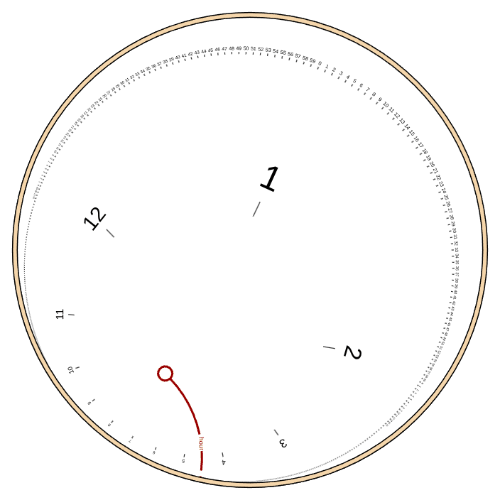
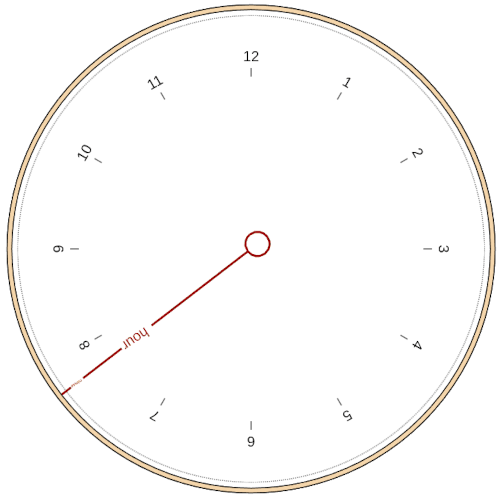
my updates

diff --git a/docs/index.html b/docs/index.html
@@ -7,20 +7,9 @@
 <link rel="stylesheet" href="style.css">
 </head>
 <body>
-<nav><a href="https://github.com/jpivarski/hyperbolic-map">&larr; hyperbolic-map on GitHub</a></nav>
+<nav><a href="https://github.com/jpivarski/hyperbolic-map">&larr; back to GitHub</a></nav>
 
-<h1>hyperbolic-map</h1>
-
-<p>An interactive viewer for vector maps of the <strong>hyperbolic plane</strong>, drawn in the
-Poincar&eacute; disk. Zero dependencies, plain JavaScript.</p>
-
-<p>This page is the reference. See
-<a href="https://github.com/jpivarski/hyperbolic-map">the README</a> for what the library is and how
-to install it,
-<a href="https://github.com/jpivarski/hyperbolic-map/blob/main/docs/MATH.md">MATH.md</a> for the
-geometry underneath, and the examples:
-<a href="dungeon-man.html">Dungeon Man</a>, <a href="jumping-man.html">Jumping Man</a>,
-<a href="escher.html">Circle Limit III</a> and <a href="clock.html">the clock</a>.</p>
+<h1>Hyperbolic Map Documentation</h1>
 
 <h2 id="a-minimal-example">A minimal example</h2>
 <p>Two files, and nothing else. Both are complete: copy them into an empty directory, put

diff --git a/docs/escher.html b/docs/escher.html
@@ -7,7 +7,7 @@
 <link rel="stylesheet" href="style.css">
 </head>
 <body>
-<nav><a href="https://github.com/jpivarski/hyperbolic-map">&larr; hyperbolic-map on GitHub</a></nav>
+<nav><a href="https://github.com/jpivarski/hyperbolic-map">&larr; back to GitHub</a></nav>
 
 <h1>M.C. Escher's <em>Circle Limit III</em></h1>
 

diff --git a/docs/clock.html b/docs/clock.html
@@ -7,7 +7,7 @@
 <link rel="stylesheet" href="style.css">
 </head>
 <body>
-<nav><a href="https://github.com/jpivarski/hyperbolic-map">&larr; hyperbolic-map on GitHub</a></nav>
+<nav><a href="https://github.com/jpivarski/hyperbolic-map">&larr; back to GitHub</a></nav>
 
 <h1>One-handed clock</h1>
 

diff --git a/docs/dungeon-man.html b/docs/dungeon-man.html
@@ -7,7 +7,7 @@
 <link rel="stylesheet" href="style.css">
 </head>
 <body>
-<nav><a href="https://github.com/jpivarski/hyperbolic-map">&larr; hyperbolic-map on GitHub</a></nav>
+<nav><a href="https://github.com/jpivarski/hyperbolic-map">&larr; back to GitHub</a></nav>
 
 <h1>Dungeon Man</h1>
 

diff --git a/docs/jumping-man.html b/docs/jumping-man.html
@@ -7,7 +7,7 @@
 <link rel="stylesheet" href="style.css">
 </head>
 <body>
-<nav><a href="https://github.com/jpivarski/hyperbolic-map">&larr; hyperbolic-map on GitHub</a></nav>
+<nav><a href="https://github.com/jpivarski/hyperbolic-map">&larr; back to GitHub</a></nav>
 
 <h1>Jumping Man</h1>
 

diff --git a/README.md b/README.md
@@ -2,20 +2,22 @@
 
 A JavaScript map widget that draws vector graphics on [the hyperbolic plane](https://en.wikipedia.org/wiki/Hyperbolic_geometry), projected as [a Poincaré disk](https://en.wikipedia.org/wiki/Poincar%C3%A9_disk_model). Think of it like Google Earth for a negatively curved surface, rather than a sphere, which is positively curved.
 
+Use it like a normal web-based map: scroll by dragging one finger or the mouse, pinch or mouse wheel to zoom, and rotate by twisting two fingers (or dragging the outer ring with a mouse).
+
+The library is pure JavaScript (ES2020) without any runtime dependencies. It has been modernized and packaged from my 2012 blog post, [Lost in Hyperbolia](http://coffeeshopphysics.com/articles/2012-12/22_lost_in_hyperbolia/) (with associated [GitHub repo](https://github.com/jpivarski/hyperbolic-storage-space)).
+
+## Examples
+
 <table>
-<tr>
+<tr style="background: white;">
 <td align="center" width="50%"><a href="https://jpivarski.github.io/hyperbolic-map/dungeon-man.html"><img src="docs/img/demo-dungeon-man.png" alt="Dungeon Man: a video-game dungeon whose rooms have five doors each, on the back of a world-turtle" width="100%"></a><br><a href="https://jpivarski.github.io/hyperbolic-map/dungeon-man.html">Dungeon Man</a></td>
 <td align="center" width="50%"><a href="https://jpivarski.github.io/hyperbolic-map/jumping-man.html"><img src="docs/img/demo-jumping-man.png" alt="Jumping Man: a jump plotted with time across and altitude up, on a hyperbolic plane" width="100%"></a><br><a href="https://jpivarski.github.io/hyperbolic-map/jumping-man.html">Jumping Man</a></td>
 </tr>
-<tr>
+<tr style="background: white;">
 <td align="center" width="50%"><a href="https://jpivarski.github.io/hyperbolic-map/escher.html"><img src="docs/img/demo-escher.png" alt="M.C. Escher's Circle Limit III: interlocking fish in four colors on an {8,3} tiling" width="100%"></a><br><a href="https://jpivarski.github.io/hyperbolic-map/escher.html">Circle Limit III</a></td>
 <td align="center" width="50%"><a href="https://jpivarski.github.io/hyperbolic-map/clock.html"><img src="docs/img/demo-clock.png" alt="A one-handed clock with all 12 hours, 720 minutes and 43,200 seconds on one face" width="100%"></a><br><a href="https://jpivarski.github.io/hyperbolic-map/clock.html">Hyperbolic clock</a></td>
 </tr>
 </table>
-
-Scroll by dragging one finger or the mouse, pinch or mouse wheel to zoom, and rotate by twisting two fingers or dragging the outer ring with a mouse.
-
-The library is pure JavaScript (ES2020) without any runtime dependencies. It has been modernized and packaged from my 2012 blog post, [Lost in Hyperbolia](http://coffeeshopphysics.com/articles/2012-12/22_lost_in_hyperbolia/) (with associated [GitHub repo](https://github.com/jpivarski/hyperbolic-storage-space)).
 
 ## Install
 
@@ -65,11 +67,9 @@ The coordinates $(x, y)$ are projected onto the screen as $(\frac{x}{w}, \frac{y
 
 ## Documentation
 
-**[How to use it](https://jpivarski.github.io/hyperbolic-map/)** — every option, every method, the
-drawable format, and atlases of tiles.
+**[Software reference:](https://jpivarski.github.io/hyperbolic-map/)** options, method, JSON graphics format, and infinite tiling.
 
-**[What the mathematics is](docs/MATH.md)** — the projection, the isometries, and which transformation
-is actually being applied to your coordinates.
+**[Mathematical reference:](docs/MATH.md)** projections, isometries, and transformations.
 
 ## Development
 
